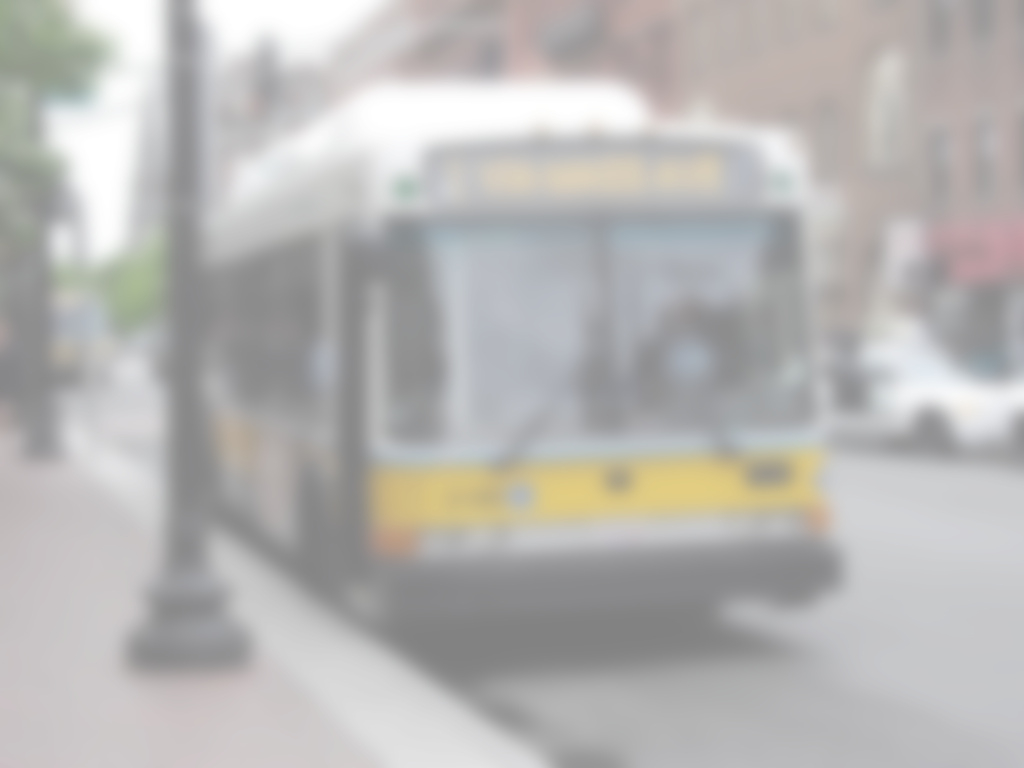
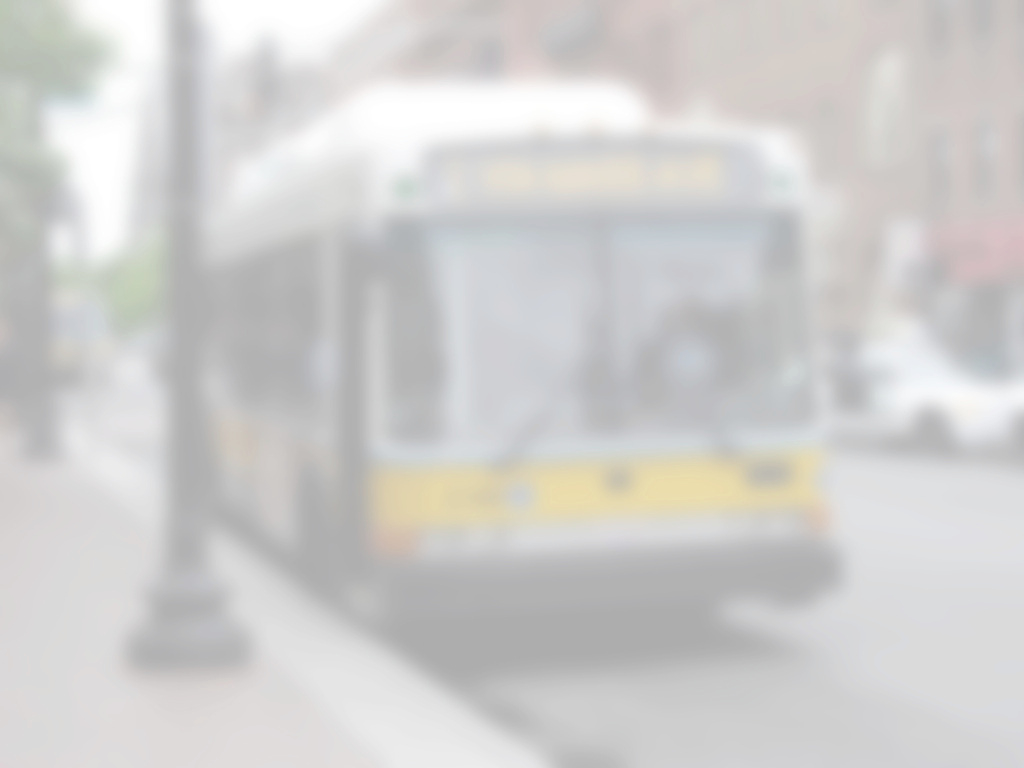
Fixed margins. Lighter background

diff --git a/css/latenight.css b/css/latenight.css
@@ -7,13 +7,23 @@ html {
 } 
                     
 body { 
-    padding-top: 70px; 
+    padding-top: 20px; 
     padding-left: 40px; 
     padding-right: 40px; 
     padding-bottom: 10px; 
     font-size: 16px; 
     background-color: transparent; 
     background: transparent; 
+}
+
+@media only screen and (max-width: 640px) {
+    body {
+        padding-top: 10px; 
+        padding-left: 20px; 
+        padding-right: 20px; 
+        padding-bottom: 40px;
+        font-size: 14px;
+    }
 }
  
 .git-ribbon {
